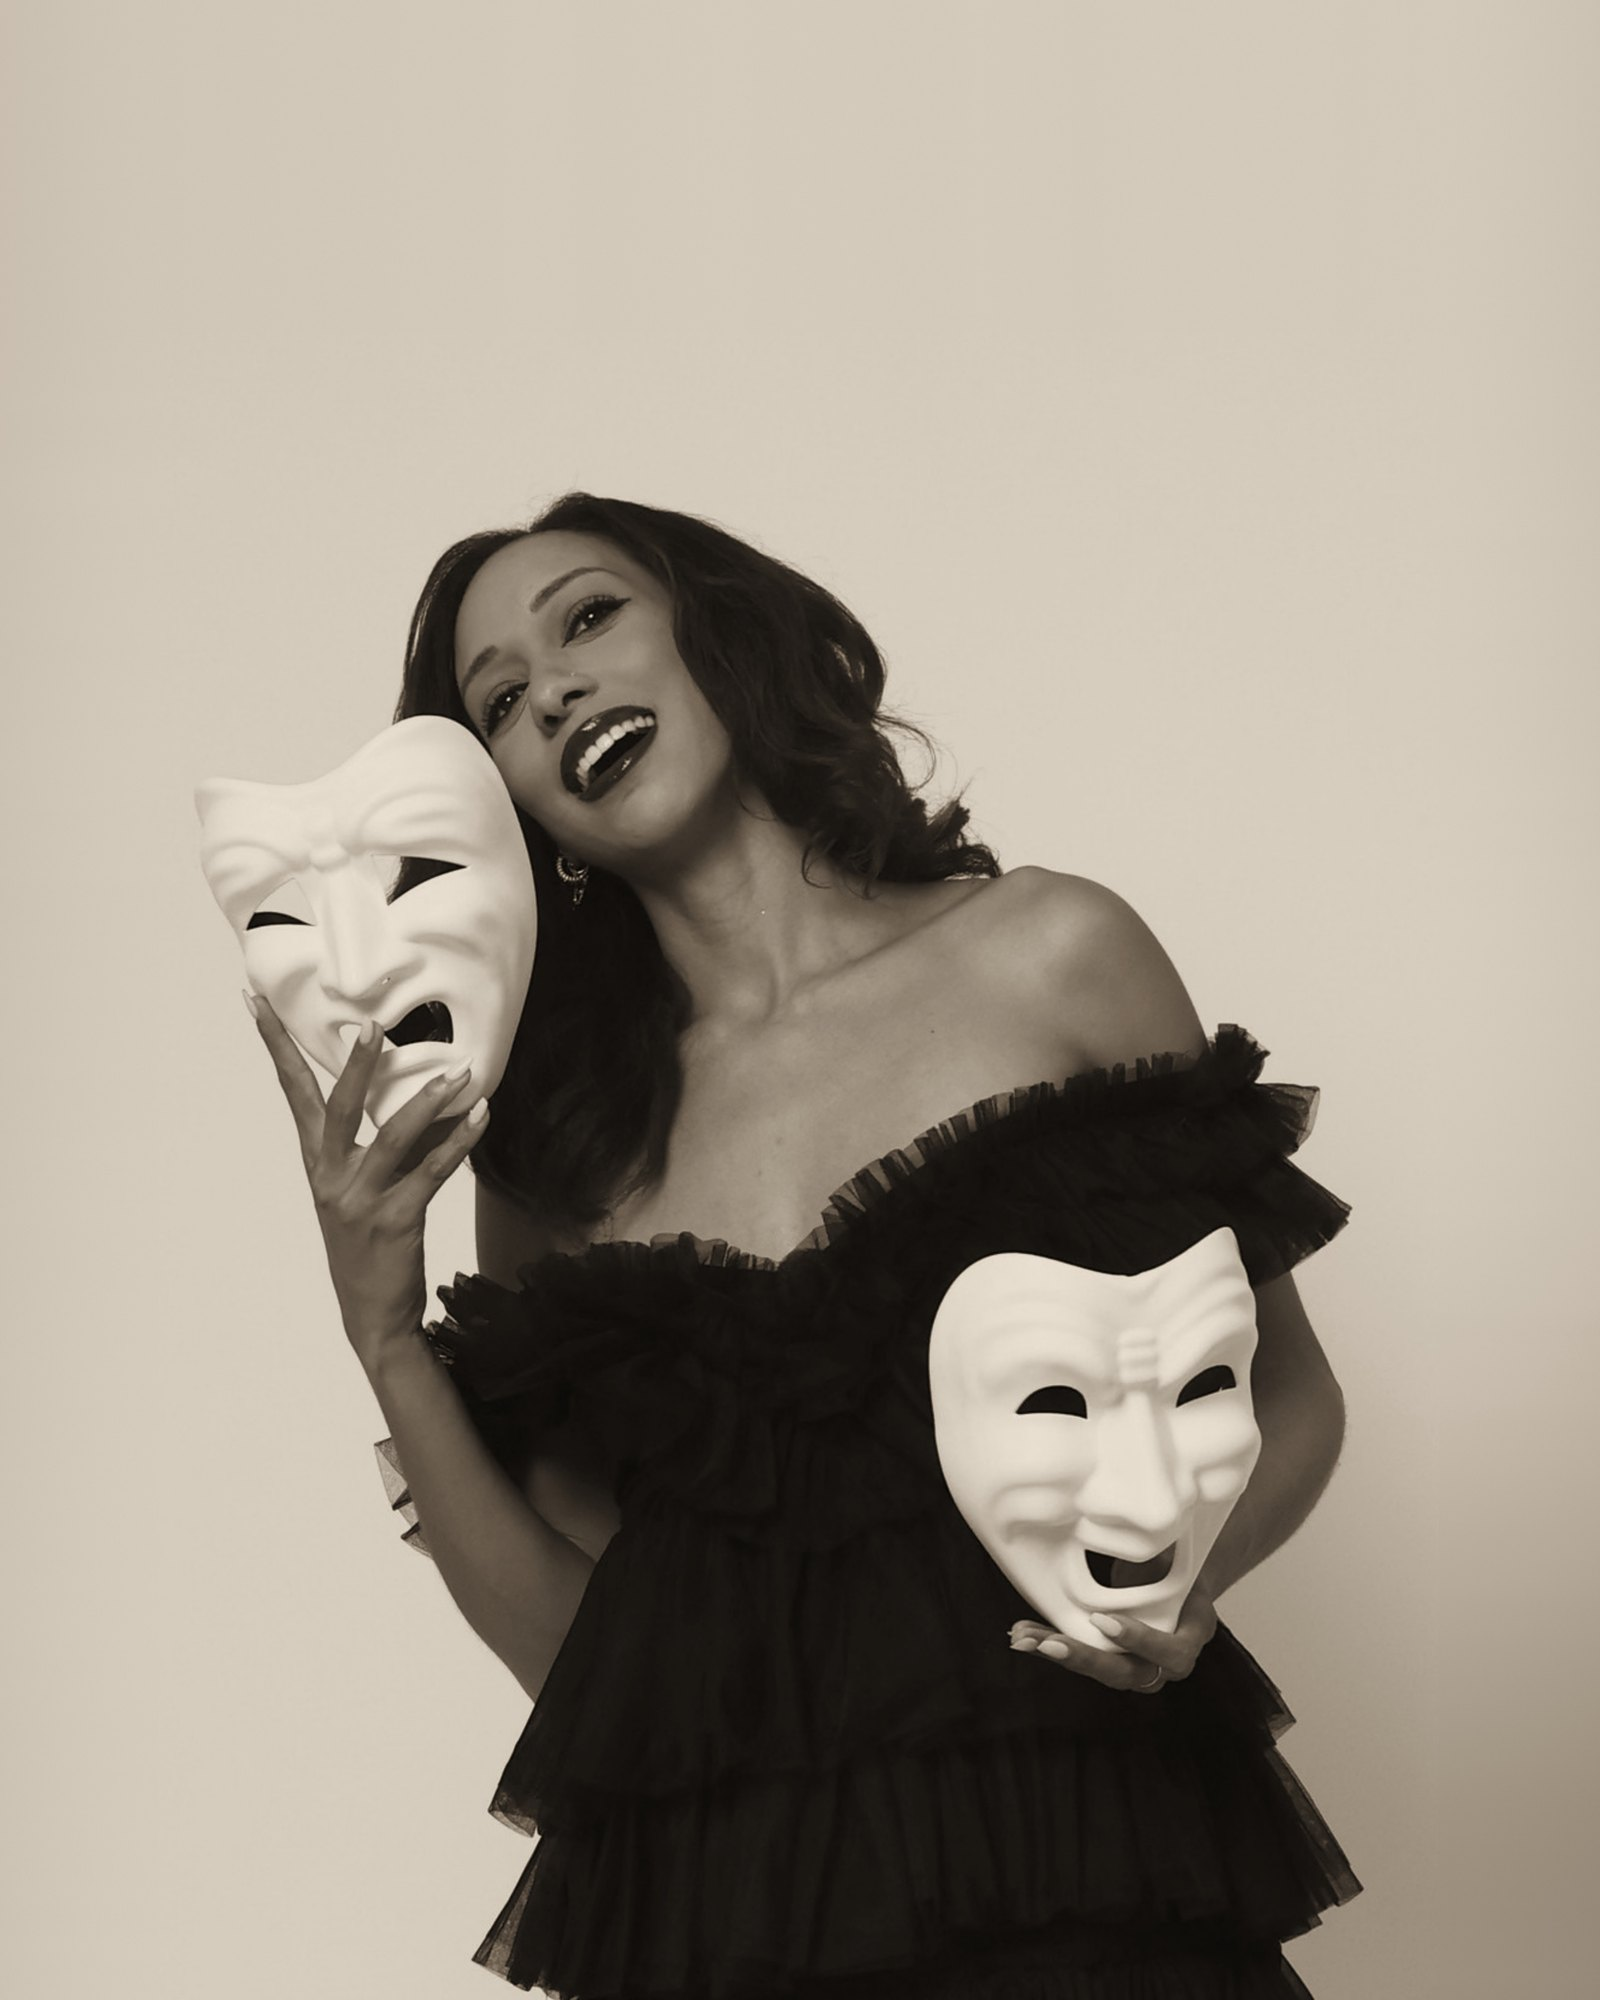
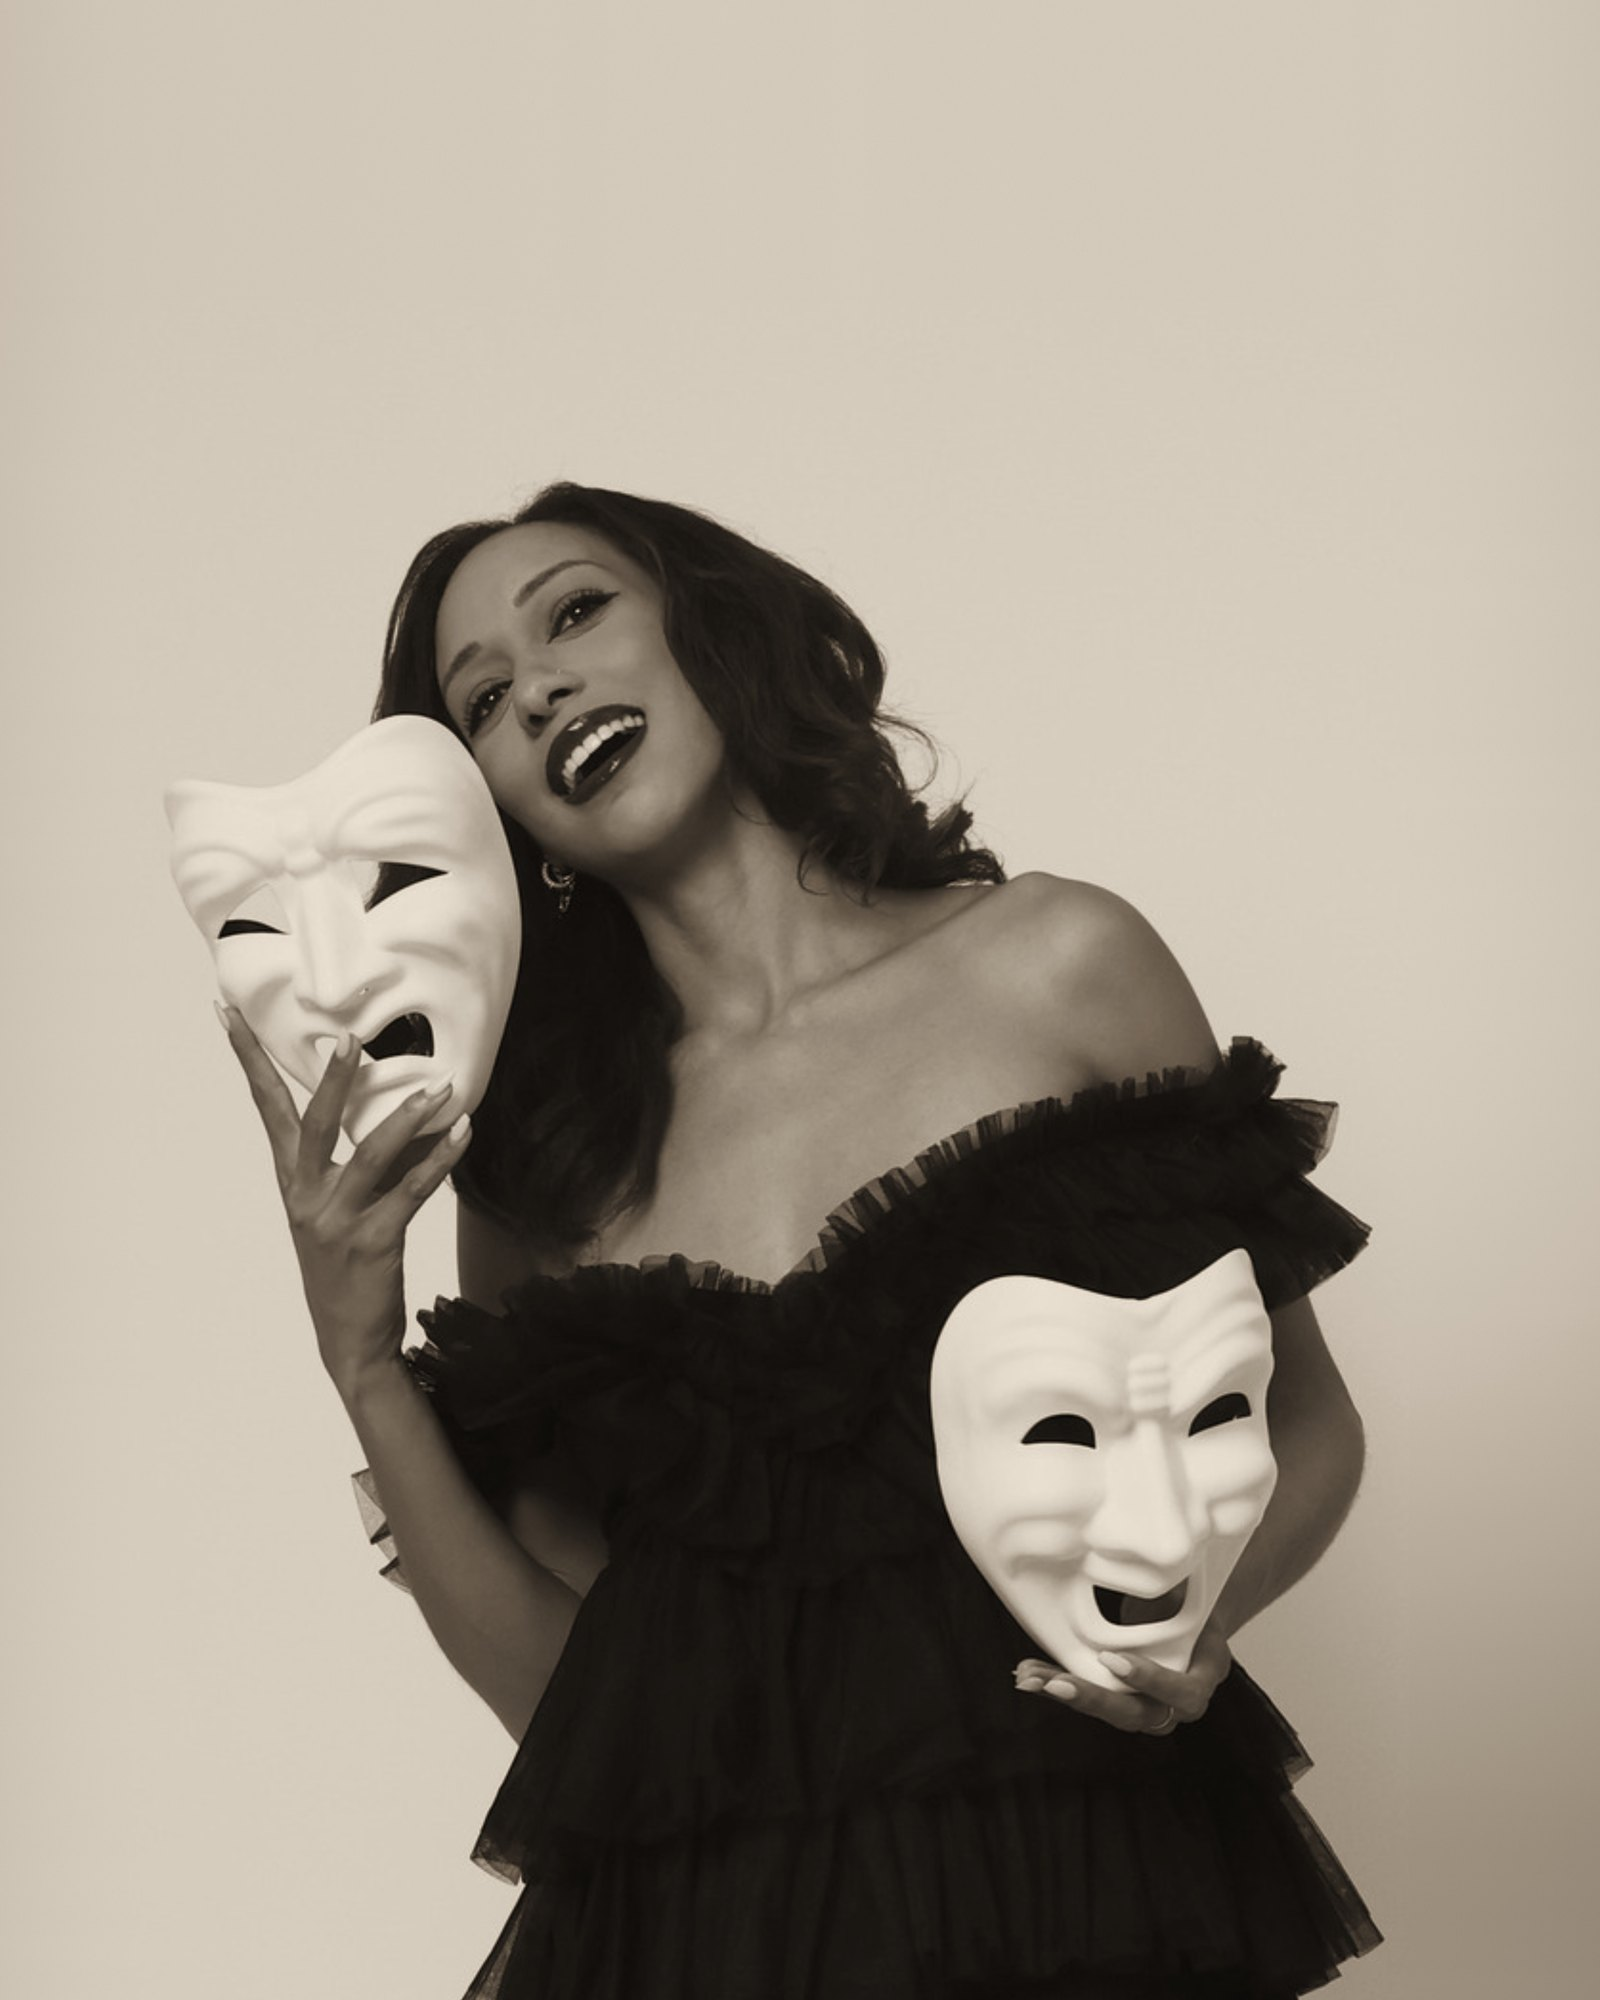
Speaking and press moves to the footer; hero points to Old Ink Records; retouched masks photo
Claude-Session: https://claude.ai/code/session_01FqDuLxJFYLT1ZZUaEZmb1x

diff --git a/index.html b/index.html
@@ -91,7 +91,6 @@
     <a class="name" href="/">Jorden Lacy Jackson</a>
     <nav aria-label="Main">
       <a href="/about-jorden-lacy-jackson">About</a>
-      <a href="/speaking-and-press">Speaking and Press</a>
       <a href="/news">News</a>
     </nav>
   </div>
@@ -106,7 +105,7 @@
         <p class="lede">Solarpunk as a lifestyle, a mindset and inner work.</p>
         <div class="btns">
           <a class="btn" href="/about-jorden-lacy-jackson">About Jorden</a>
-          <a class="btn btn-quiet" href="/speaking-and-press">Speaking and press</a>
+          <a class="btn btn-quiet" href="https://oldinkrecords.com/">Old Ink Records</a>
         </div>
       </div>
       <figure class="arch" style="margin:0">
@@ -170,6 +169,7 @@
       <a href="https://www.instagram.com/jordenlacyjackson" rel="noopener">Instagram</a>
       <a href="https://medium.com/@jordenlacyjackson" rel="noopener">Medium</a>
       <a href="https://www.tumblr.com/jorden-lacy-jackson" rel="noopener">Tumblr</a>
+      <a href="/speaking-and-press">Speaking and press</a>
     </nav>
   </div>
 </footer>

diff --git a/about-jorden-lacy-jackson.html b/about-jorden-lacy-jackson.html
@@ -129,7 +129,6 @@
     <a class="name" href="/">Jorden Lacy Jackson</a>
     <nav aria-label="Main">
       <a href="/about-jorden-lacy-jackson" aria-current="page">About</a>
-      <a href="/speaking-and-press">Speaking and Press</a>
       <a href="/news">News</a>
     </nav>
   </div>
@@ -172,6 +171,7 @@
       <a href="https://www.instagram.com/jordenlacyjackson" rel="noopener">Instagram</a>
       <a href="https://medium.com/@jordenlacyjackson" rel="noopener">Medium</a>
       <a href="https://www.tumblr.com/jorden-lacy-jackson" rel="noopener">Tumblr</a>
+      <a href="/speaking-and-press">Speaking and press</a>
     </nav>
   </div>
 </footer>

diff --git a/news.html b/news.html
@@ -91,7 +91,6 @@
     <a class="name" href="/">Jorden Lacy Jackson</a>
     <nav aria-label="Main">
       <a href="/about-jorden-lacy-jackson">About</a>
-      <a href="/speaking-and-press">Speaking and Press</a>
       <a href="/news" aria-current="page">News</a>
     </nav>
   </div>
@@ -115,6 +114,7 @@
       <a href="https://www.instagram.com/jordenlacyjackson" rel="noopener">Instagram</a>
       <a href="https://medium.com/@jordenlacyjackson" rel="noopener">Medium</a>
       <a href="https://www.tumblr.com/jorden-lacy-jackson" rel="noopener">Tumblr</a>
+      <a href="/speaking-and-press">Speaking and press</a>
     </nav>
   </div>
 </footer>

diff --git a/speaking-and-press.html b/speaking-and-press.html
@@ -91,7 +91,6 @@
     <a class="name" href="/">Jorden Lacy Jackson</a>
     <nav aria-label="Main">
       <a href="/about-jorden-lacy-jackson">About</a>
-      <a href="/speaking-and-press" aria-current="page">Speaking and Press</a>
       <a href="/news">News</a>
     </nav>
   </div>
@@ -140,6 +139,7 @@
       <a href="https://www.instagram.com/jordenlacyjackson" rel="noopener">Instagram</a>
       <a href="https://medium.com/@jordenlacyjackson" rel="noopener">Medium</a>
       <a href="https://www.tumblr.com/jorden-lacy-jackson" rel="noopener">Tumblr</a>
+      <a href="/speaking-and-press">Speaking and press</a>
     </nav>
   </div>
 </footer>

diff --git a/archive.html b/archive.html
@@ -92,7 +92,6 @@
     <a class="name" href="/">Jorden Lacy Jackson</a>
     <nav aria-label="Main">
       <a href="/about-jorden-lacy-jackson">About</a>
-      <a href="/speaking-and-press">Speaking and Press</a>
       <a href="/news">News</a>
     </nav>
   </div>
@@ -117,6 +116,7 @@
       <a href="https://www.instagram.com/jordenlacyjackson" rel="noopener">Instagram</a>
       <a href="https://medium.com/@jordenlacyjackson" rel="noopener">Medium</a>
       <a href="https://www.tumblr.com/jorden-lacy-jackson" rel="noopener">Tumblr</a>
+      <a href="/speaking-and-press">Speaking and press</a>
     </nav>
   </div>
 </footer>

diff --git a/old-ink-records-research-and-record-keeping-institution-launches-in-los-angeles-on-august-26-2026.html b/old-ink-records-research-and-record-keeping-institution-launches-in-los-angeles-on-august-26-2026.html
@@ -98,7 +98,6 @@
     <a class="name" href="/">Jorden Lacy Jackson</a>
     <nav aria-label="Main">
       <a href="/about-jorden-lacy-jackson">About</a>
-      <a href="/speaking-and-press">Speaking and Press</a>
       <a href="/news">News</a>
     </nav>
   </div>
@@ -133,6 +132,7 @@
       <a href="https://www.instagram.com/jordenlacyjackson" rel="noopener">Instagram</a>
       <a href="https://medium.com/@jordenlacyjackson" rel="noopener">Medium</a>
       <a href="https://www.tumblr.com/jorden-lacy-jackson" rel="noopener">Tumblr</a>
+      <a href="/speaking-and-press">Speaking and press</a>
     </nav>
   </div>
 </footer>

diff --git a/press-releasesjorden-lacy-jackson-quietly-releases-a-music-trilogy.html b/press-releasesjorden-lacy-jackson-quietly-releases-a-music-trilogy.html
@@ -97,7 +97,6 @@
     <a class="name" href="/">Jorden Lacy Jackson</a>
     <nav aria-label="Main">
       <a href="/about-jorden-lacy-jackson">About</a>
-      <a href="/speaking-and-press">Speaking and Press</a>
       <a href="/news">News</a>
     </nav>
   </div>
@@ -132,6 +131,7 @@
       <a href="https://www.instagram.com/jordenlacyjackson" rel="noopener">Instagram</a>
       <a href="https://medium.com/@jordenlacyjackson" rel="noopener">Medium</a>
       <a href="https://www.tumblr.com/jorden-lacy-jackson" rel="noopener">Tumblr</a>
+      <a href="/speaking-and-press">Speaking and press</a>
     </nav>
   </div>
 </footer>

diff --git a/solarpunk-artist-and-creative-technologist-jorden-lacy-jackson-launches-experimental-sandbox-on-youtube.html b/solarpunk-artist-and-creative-technologist-jorden-lacy-jackson-launches-experimental-sandbox-on-youtube.html
@@ -98,7 +98,6 @@
     <a class="name" href="/">Jorden Lacy Jackson</a>
     <nav aria-label="Main">
       <a href="/about-jorden-lacy-jackson">About</a>
-      <a href="/speaking-and-press">Speaking and Press</a>
       <a href="/news">News</a>
     </nav>
   </div>
@@ -136,6 +135,7 @@
       <a href="https://www.instagram.com/jordenlacyjackson" rel="noopener">Instagram</a>
       <a href="https://medium.com/@jordenlacyjackson" rel="noopener">Medium</a>
       <a href="https://www.tumblr.com/jorden-lacy-jackson" rel="noopener">Tumblr</a>
+      <a href="/speaking-and-press">Speaking and press</a>
     </nav>
   </div>
 </footer>

diff --git a/404.html b/404.html
@@ -82,7 +82,6 @@
     <a class="name" href="/">Jorden Lacy Jackson</a>
     <nav aria-label="Main">
       <a href="/about-jorden-lacy-jackson">About</a>
-      <a href="/speaking-and-press">Speaking and Press</a>
       <a href="/news">News</a>
     </nav>
   </div>
@@ -100,6 +99,7 @@
       <a href="https://www.instagram.com/jordenlacyjackson" rel="noopener">Instagram</a>
       <a href="https://medium.com/@jordenlacyjackson" rel="noopener">Medium</a>
       <a href="https://www.tumblr.com/jorden-lacy-jackson" rel="noopener">Tumblr</a>
+      <a href="/speaking-and-press">Speaking and press</a>
     </nav>
   </div>
 </footer>
